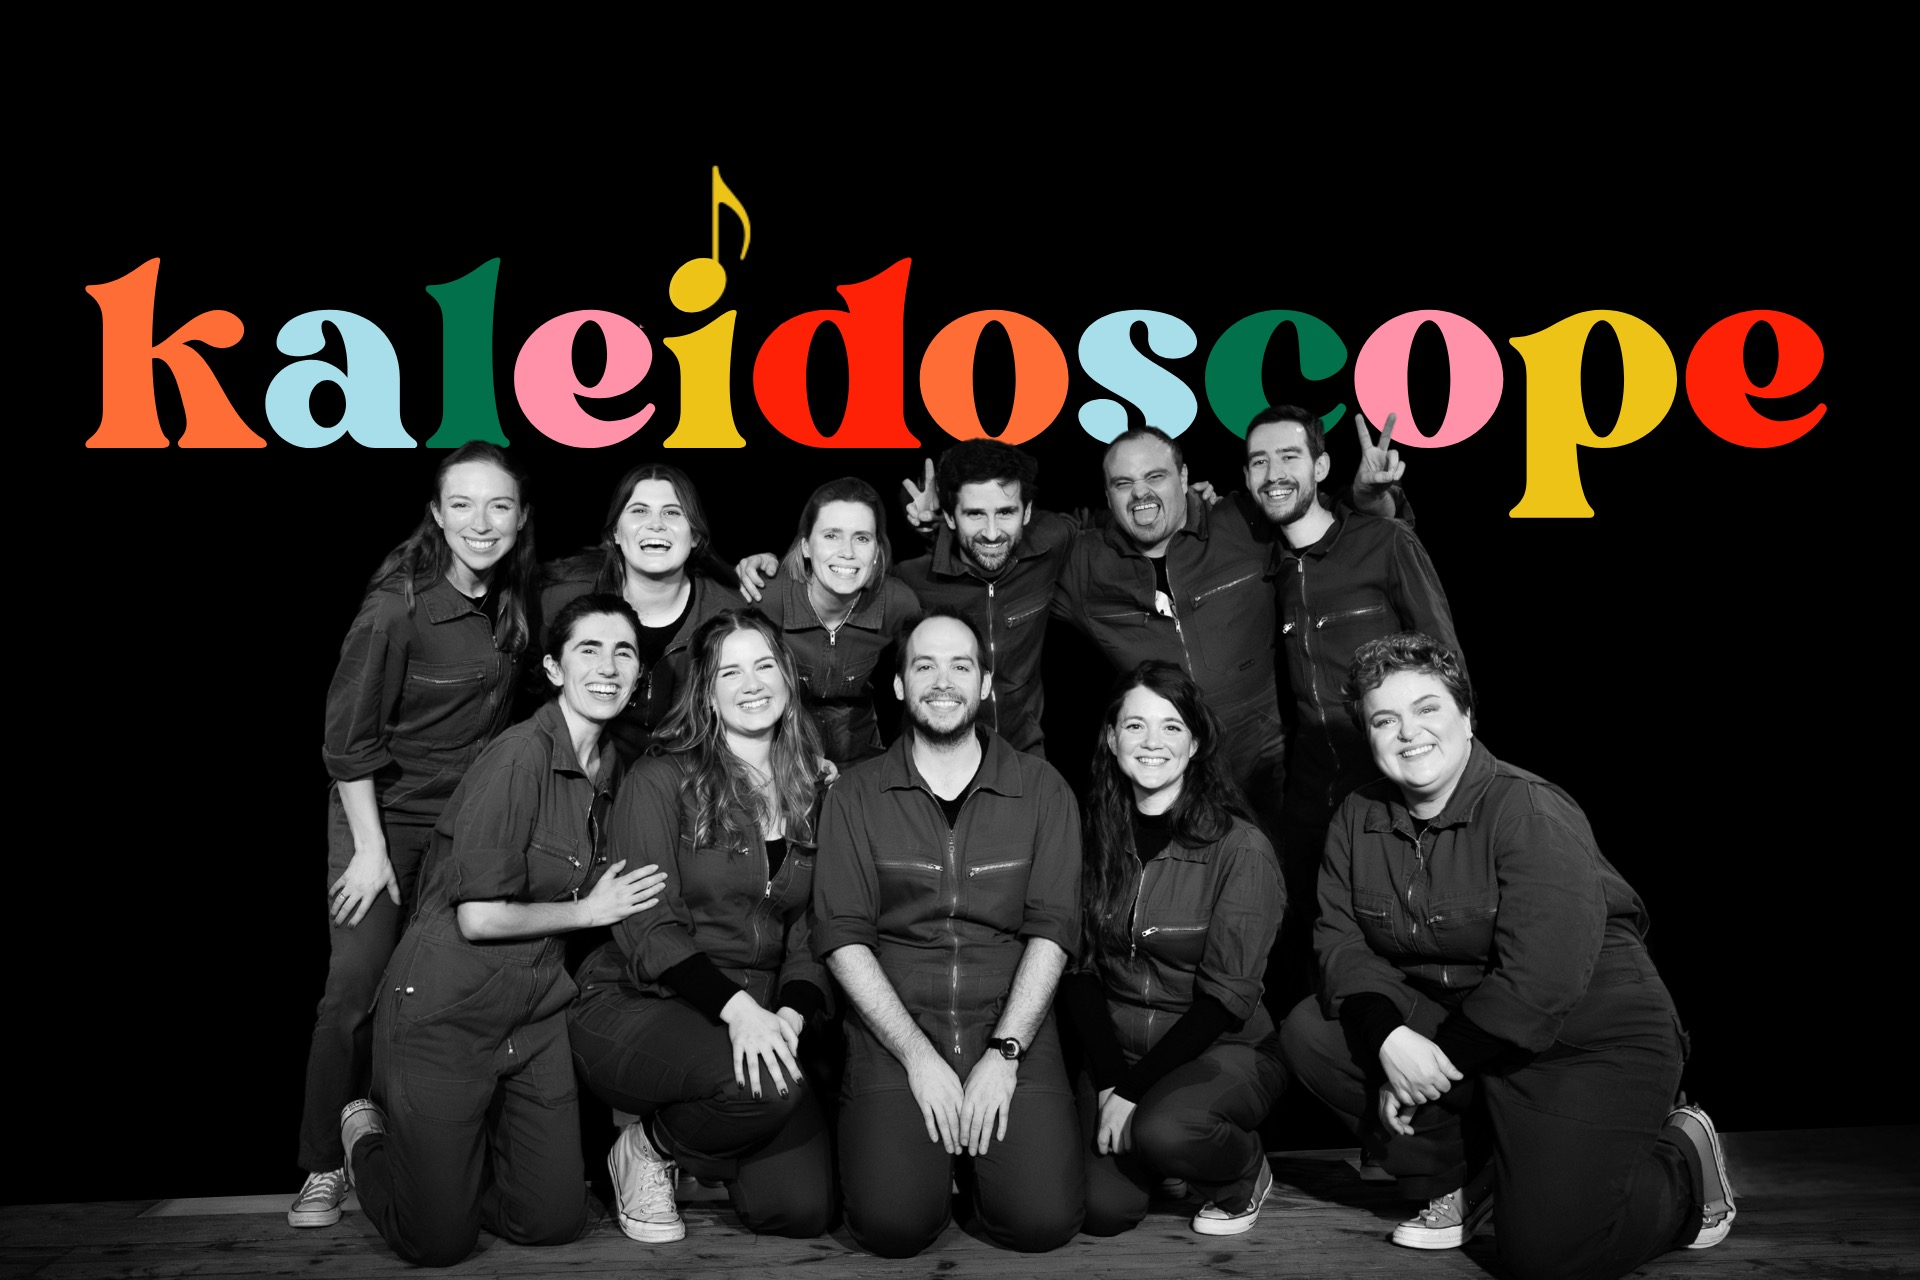
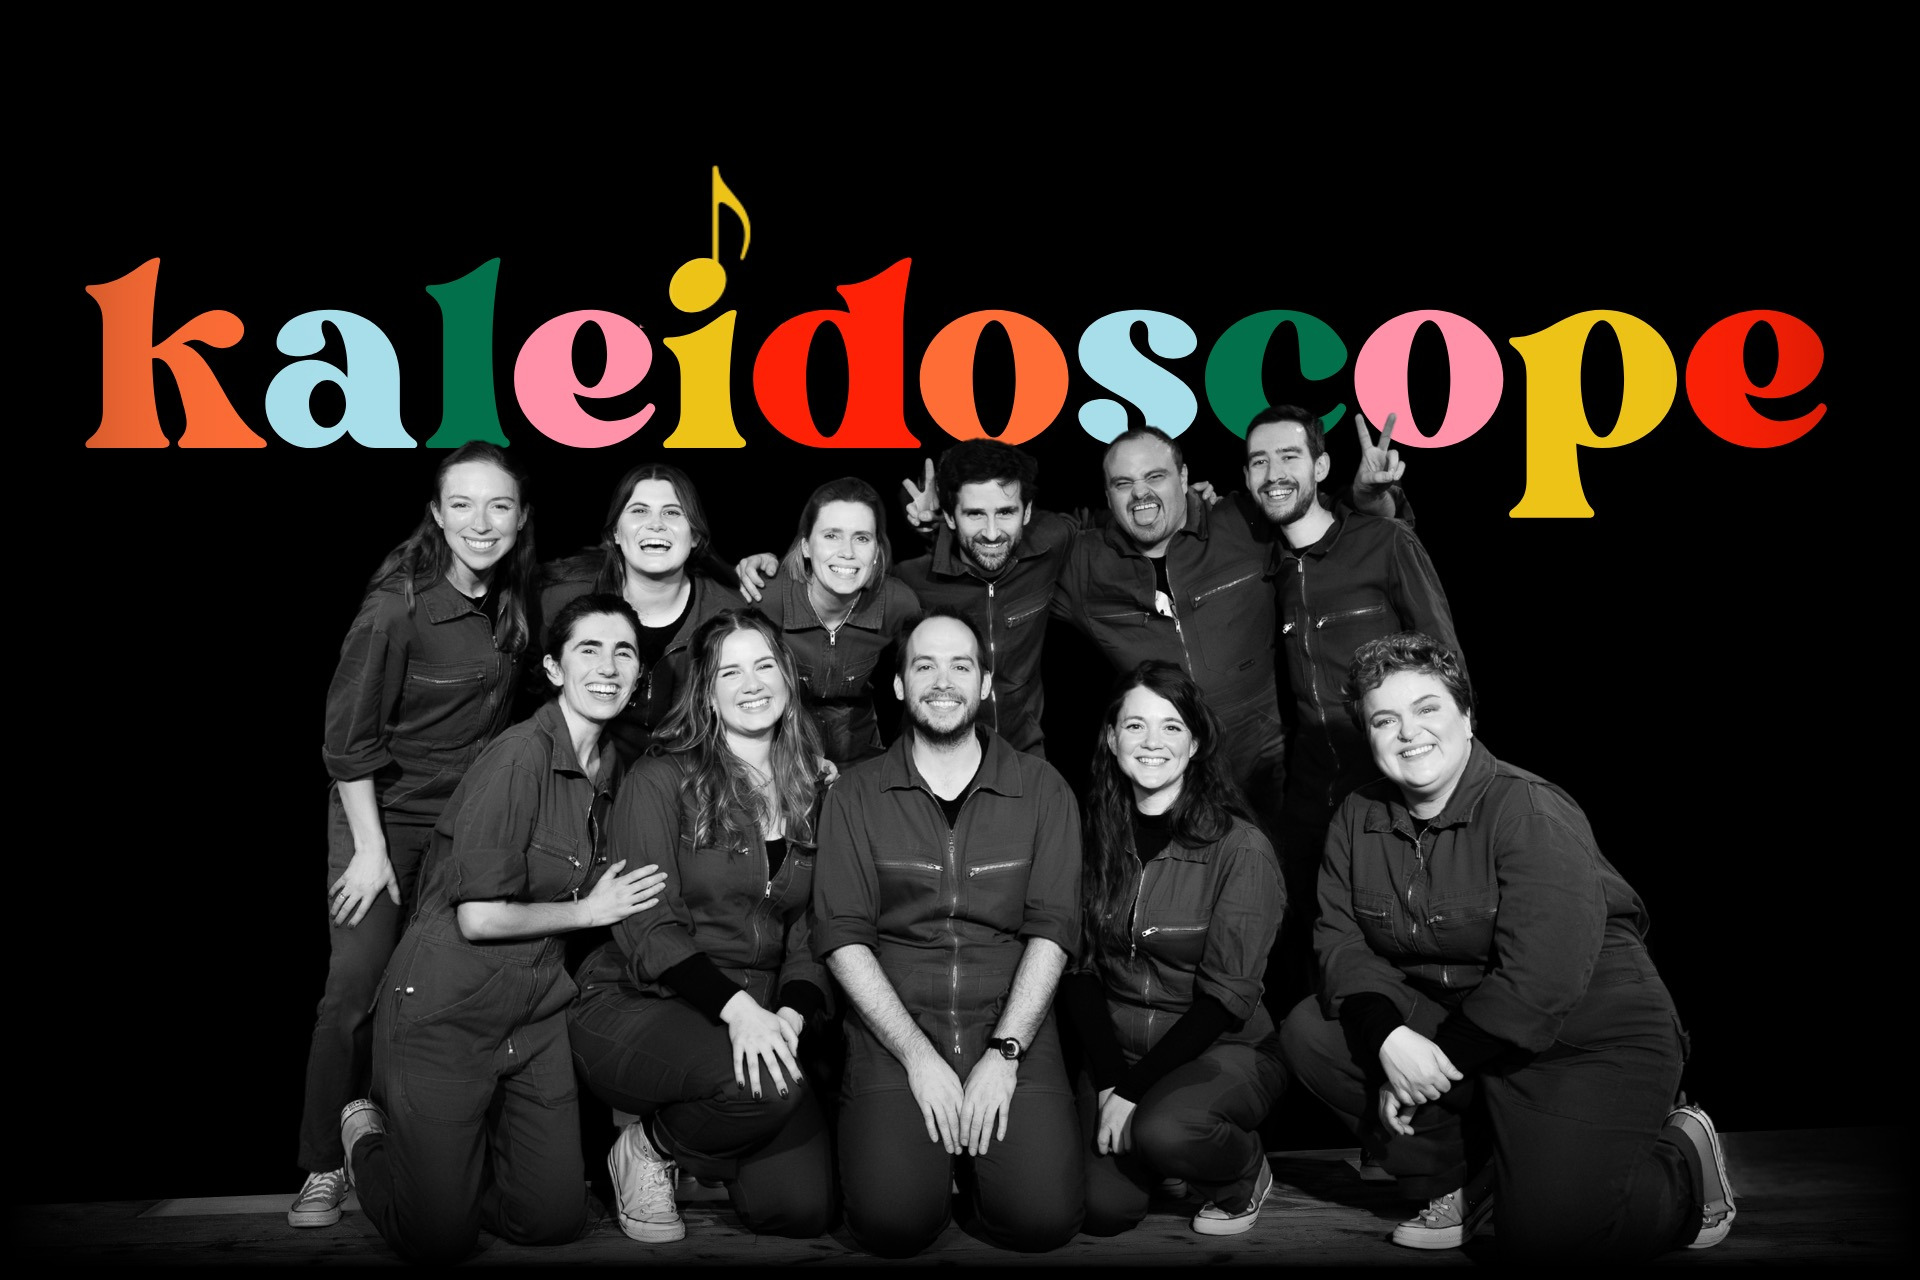
Use vignette effect on image directly

diff --git a/css/styles.css b/css/styles.css
@@ -361,22 +361,6 @@ a {
     background-color: #000;
 }
 
-.hero-vignette {
-    position: absolute;
-    bottom: 0;
-    left: 0;
-    width: 100%;
-    height: 100%;
-    /* Layered vignette: strong on left/right, subtle on bottom */
-    background:
-        linear-gradient(to right, rgba(0, 0, 0, 1) 0%, rgba(0, 0, 0, 0) 25%, rgba(0, 0, 0, 0) 75%, rgba(0, 0, 0, 1) 83%),
-        linear-gradient(to left, rgba(0, 0, 0, 1) 0%, rgba(0, 0, 0, 0) 25%, rgba(0, 0, 0, 0) 75%, rgba(0, 0, 0, 1) 83%),
-        linear-gradient(to bottom, rgba(0, 0, 0, 0) 0%, rgba(0, 0, 0, 0) 99%, rgba(0, 0, 0, 1) 100%);
-    pointer-events: none;
-    z-index: 2;
-    /* Ensure it stays above everything in the hero section */
-}
-
 .hero-reviews {
     background-color: #000;
     padding: 1rem 0;
@@ -873,10 +857,6 @@ a {
         /* Natural aspect ratio of the photo */
         background-size: cover;
         padding: 0;
-    }
-
-    .hero-vignette {
-        display: none;
     }
 
     .hero-reviews {

diff --git a/index.html b/index.html
@@ -44,7 +44,6 @@
 
     <!-- Hero Section -->
     <header class="hero hero-native fade-in" id="home">
-        <div class="hero-vignette"></div>
     </header>
 
     <!-- Hero Reviews Section -->
